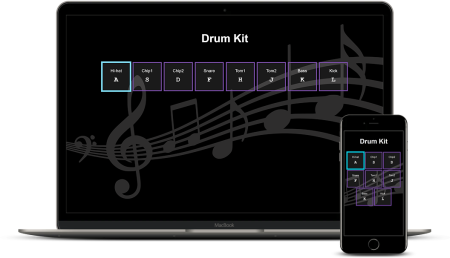
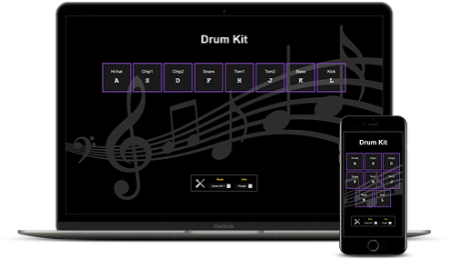
updated project links

diff --git a/src/Components/Projects.jsx b/src/Components/Projects.jsx
@@ -1,8 +1,7 @@
 import React from 'react';
 import Project from './Project';
 import ProjectLinkGitHub from './ProjectLinkGitHub';
-import ProjectLinkCodepen from './ProjectLinkCodepen';
-import ProjectLinkSandbox from './ProjectLinkSandbox';
+import ProjectLinkLive from './ProjectLinkLive';
 import astromanMockup from '../img/smartmockups-astroman-450.png';
 import drumkitMockup from '../img/smartmockups-drumkit-450.png';
 import portfolioMockup from '../img/smartmockups-portfolio-450.png';
@@ -16,7 +15,7 @@ function Projects() {
           name="Astroman - Game For Two Players"
           imgSrc={astromanMockup}
           altName="the Astroman game"
-          date="February 2020"
+          date="2020"
           tags={[
             { tag: 'Create React App', category: 'React' },
             { tag: 'JSX', category: 'react' },
@@ -31,12 +30,12 @@ function Projects() {
           ]}
           links={[
             <ProjectLinkGitHub
-              name="See Astroman (React-Redux) code on GitHub"
+              name="See the Astroman code on GitHub"
               href="https://github.com/aga87/astro-react-redux"
             />,
-            <ProjectLinkSandbox
-              name="See Astroman (React-Redux) live on CodeSandbox"
-              href="https://codesandbox.io/s/astroman-game-react-redux-fiz3b"
+            <ProjectLinkLive
+              name="www.astroman-game.com"
+              href="https://www.astroman-game.com/"
             />,
           ]}
         >
@@ -67,7 +66,7 @@ function Projects() {
           name="Drum Kit"
           imgSrc={drumkitMockup}
           altName="the drum kit app"
-          date="March 2020"
+          date="2020"
           tags={[
             { tag: 'Create React App', category: 'react' },
             { tag: 'JSX', category: 'react' },
@@ -80,19 +79,19 @@ function Projects() {
           ]}
           links={[
             <ProjectLinkGitHub
-              name="See the Drum Kit (React) code on GitHub"
+              name="See the Drum Kit code on GitHub"
               href="https://github.com/aga87/drumkit-react"
             />,
-            <ProjectLinkSandbox
-              name="See the Drum Kit (React) live on CodeSandbox"
-              href="https://codesandbox.io/s/drum-kit-create-react-app-1qx16"
+            <ProjectLinkLive
+              name="www.drumkit-react.com"
+              href="https://www.drumkit-react.com/"
             />,
           ]}
         >
           <p>
-            Press a key to play a corresponding drum kit sound. A small app
-            built with React, designated primarily for keyboard use and fully
-            accessible.
+            Press a key to play a corresponding drum kit sound. Change the drum
+            kit setup and skin from the toolbar. A small app built with React,
+            designated primarily for keyboard use and fully accessible.
           </p>
         </Project>
       </li>
@@ -102,7 +101,7 @@ function Projects() {
           name="My Portfolio Website"
           imgSrc={portfolioMockup}
           altName="my portfolio website"
-          date="June 2020"
+          date="2020"
           tags={[
             { tag: 'Create React App', category: 'react' },
             { tag: 'JSX', category: 'react' },
@@ -117,7 +116,7 @@ function Projects() {
           ]}
           links={[
             <ProjectLinkGitHub
-              name="See my portfolio (React) code on GitHub"
+              name="See my portfolio code on GitHub"
               href="https://github.com/aga87/my-portfolio"
             />,
           ]}
@@ -138,7 +137,7 @@ function Projects() {
           name="Image Gallery - Bikes"
           imgSrc={galleryMockup}
           altName="the image gallery"
-          date="April 2020"
+          date="2020"
           tags={[
             { tag: 'ES5', category: 'js' },
             { tag: 'Vanilla JS', category: 'js' },
@@ -155,9 +154,9 @@ function Projects() {
               name="See the image gallery code on GitHub"
               href="https://github.com/aga87/gallery"
             />,
-            <ProjectLinkCodepen
-              name="See the image gallery live on Codepen"
-              href="https://codepen.io/aga87/project/editor/ff6d38996f2bc7fee47490682e976e23#0"
+            <ProjectLinkLive
+              name="www.gallery-bikes.com"
+              href="https://www.gallery-bikes.com/"
             />,
           ]}
         >

diff --git a/src/Components/ProjectLinkLive.jsx b/src/Components/ProjectLinkLive.jsx
@@ -1,0 +1,21 @@
+import React from 'react';
+
+function ProjectLinkLive(props) {
+  const { name, href } = props;
+
+  return (
+    <>
+      See the project live on{' '}
+      <a
+        className="o-link"
+        href={href}
+        target="_blank"
+        rel="noopener noreferrer"
+      >
+        {name}{' '}
+      </a>
+    </>
+  );
+}
+
+export default ProjectLinkLive;

diff --git a/src/Components/Project.jsx b/src/Components/Project.jsx
@@ -73,7 +73,7 @@ function Project(props) {
 
               <tr>
                 <th rowSpan="2" className="c-project-info__heading">
-                  Code:
+                  Links:
                 </th>
                 <td className="c-project-info__text">
                   <ul className="c-project-info__link-list">
